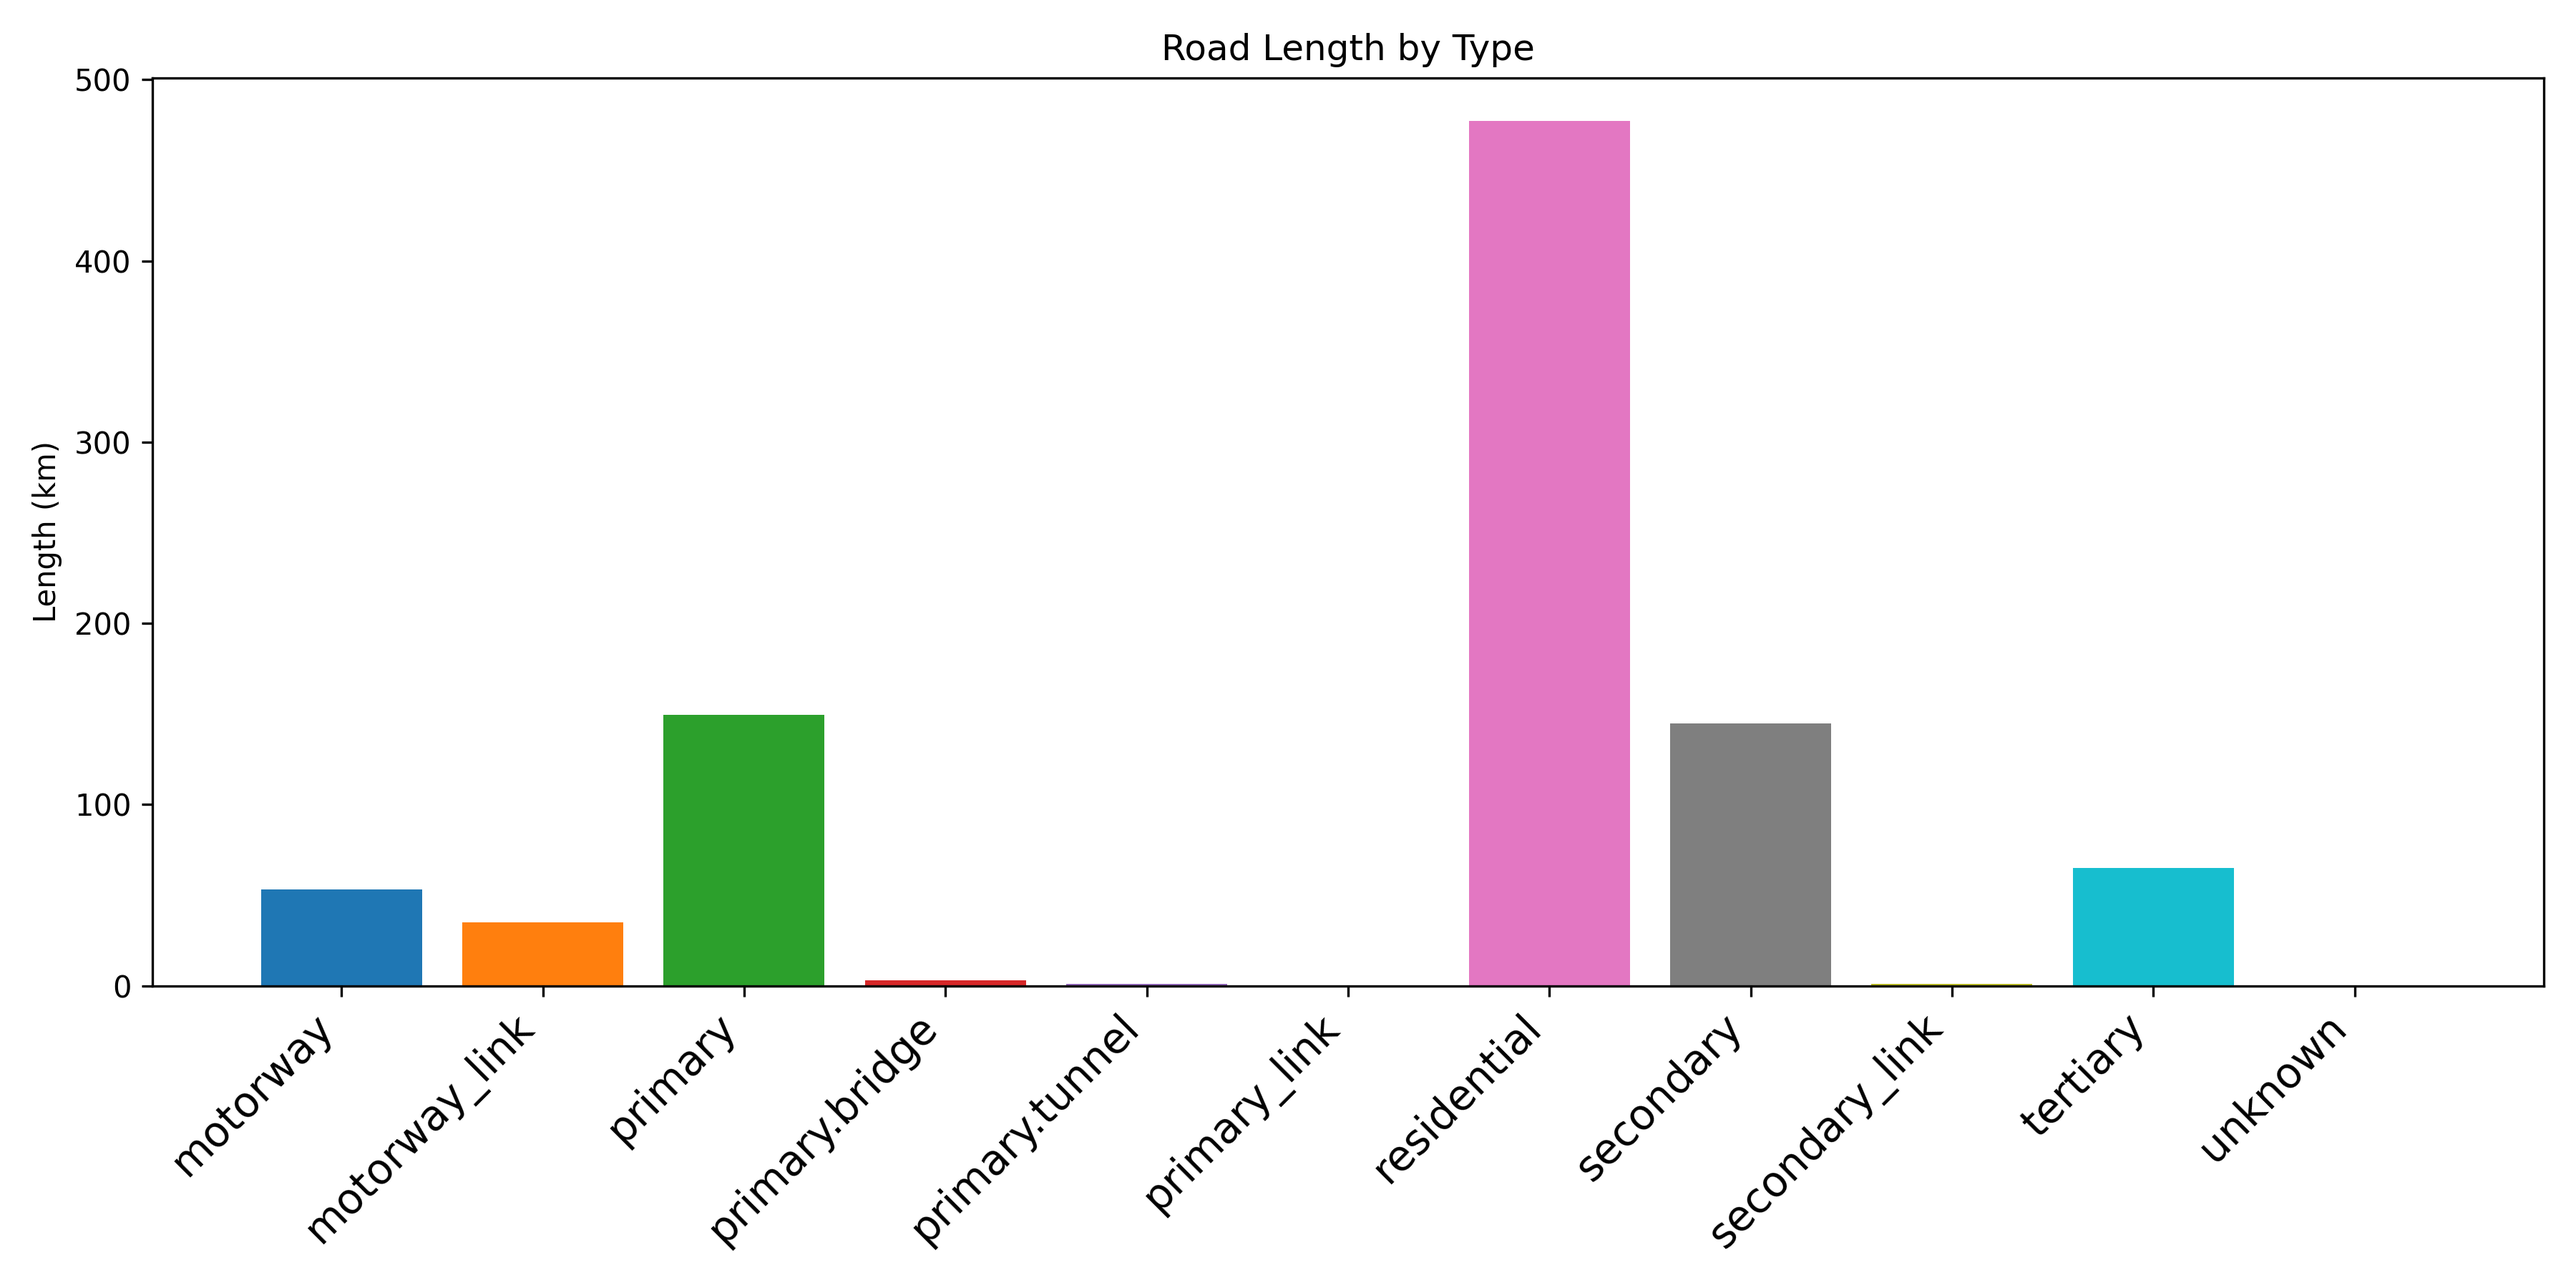
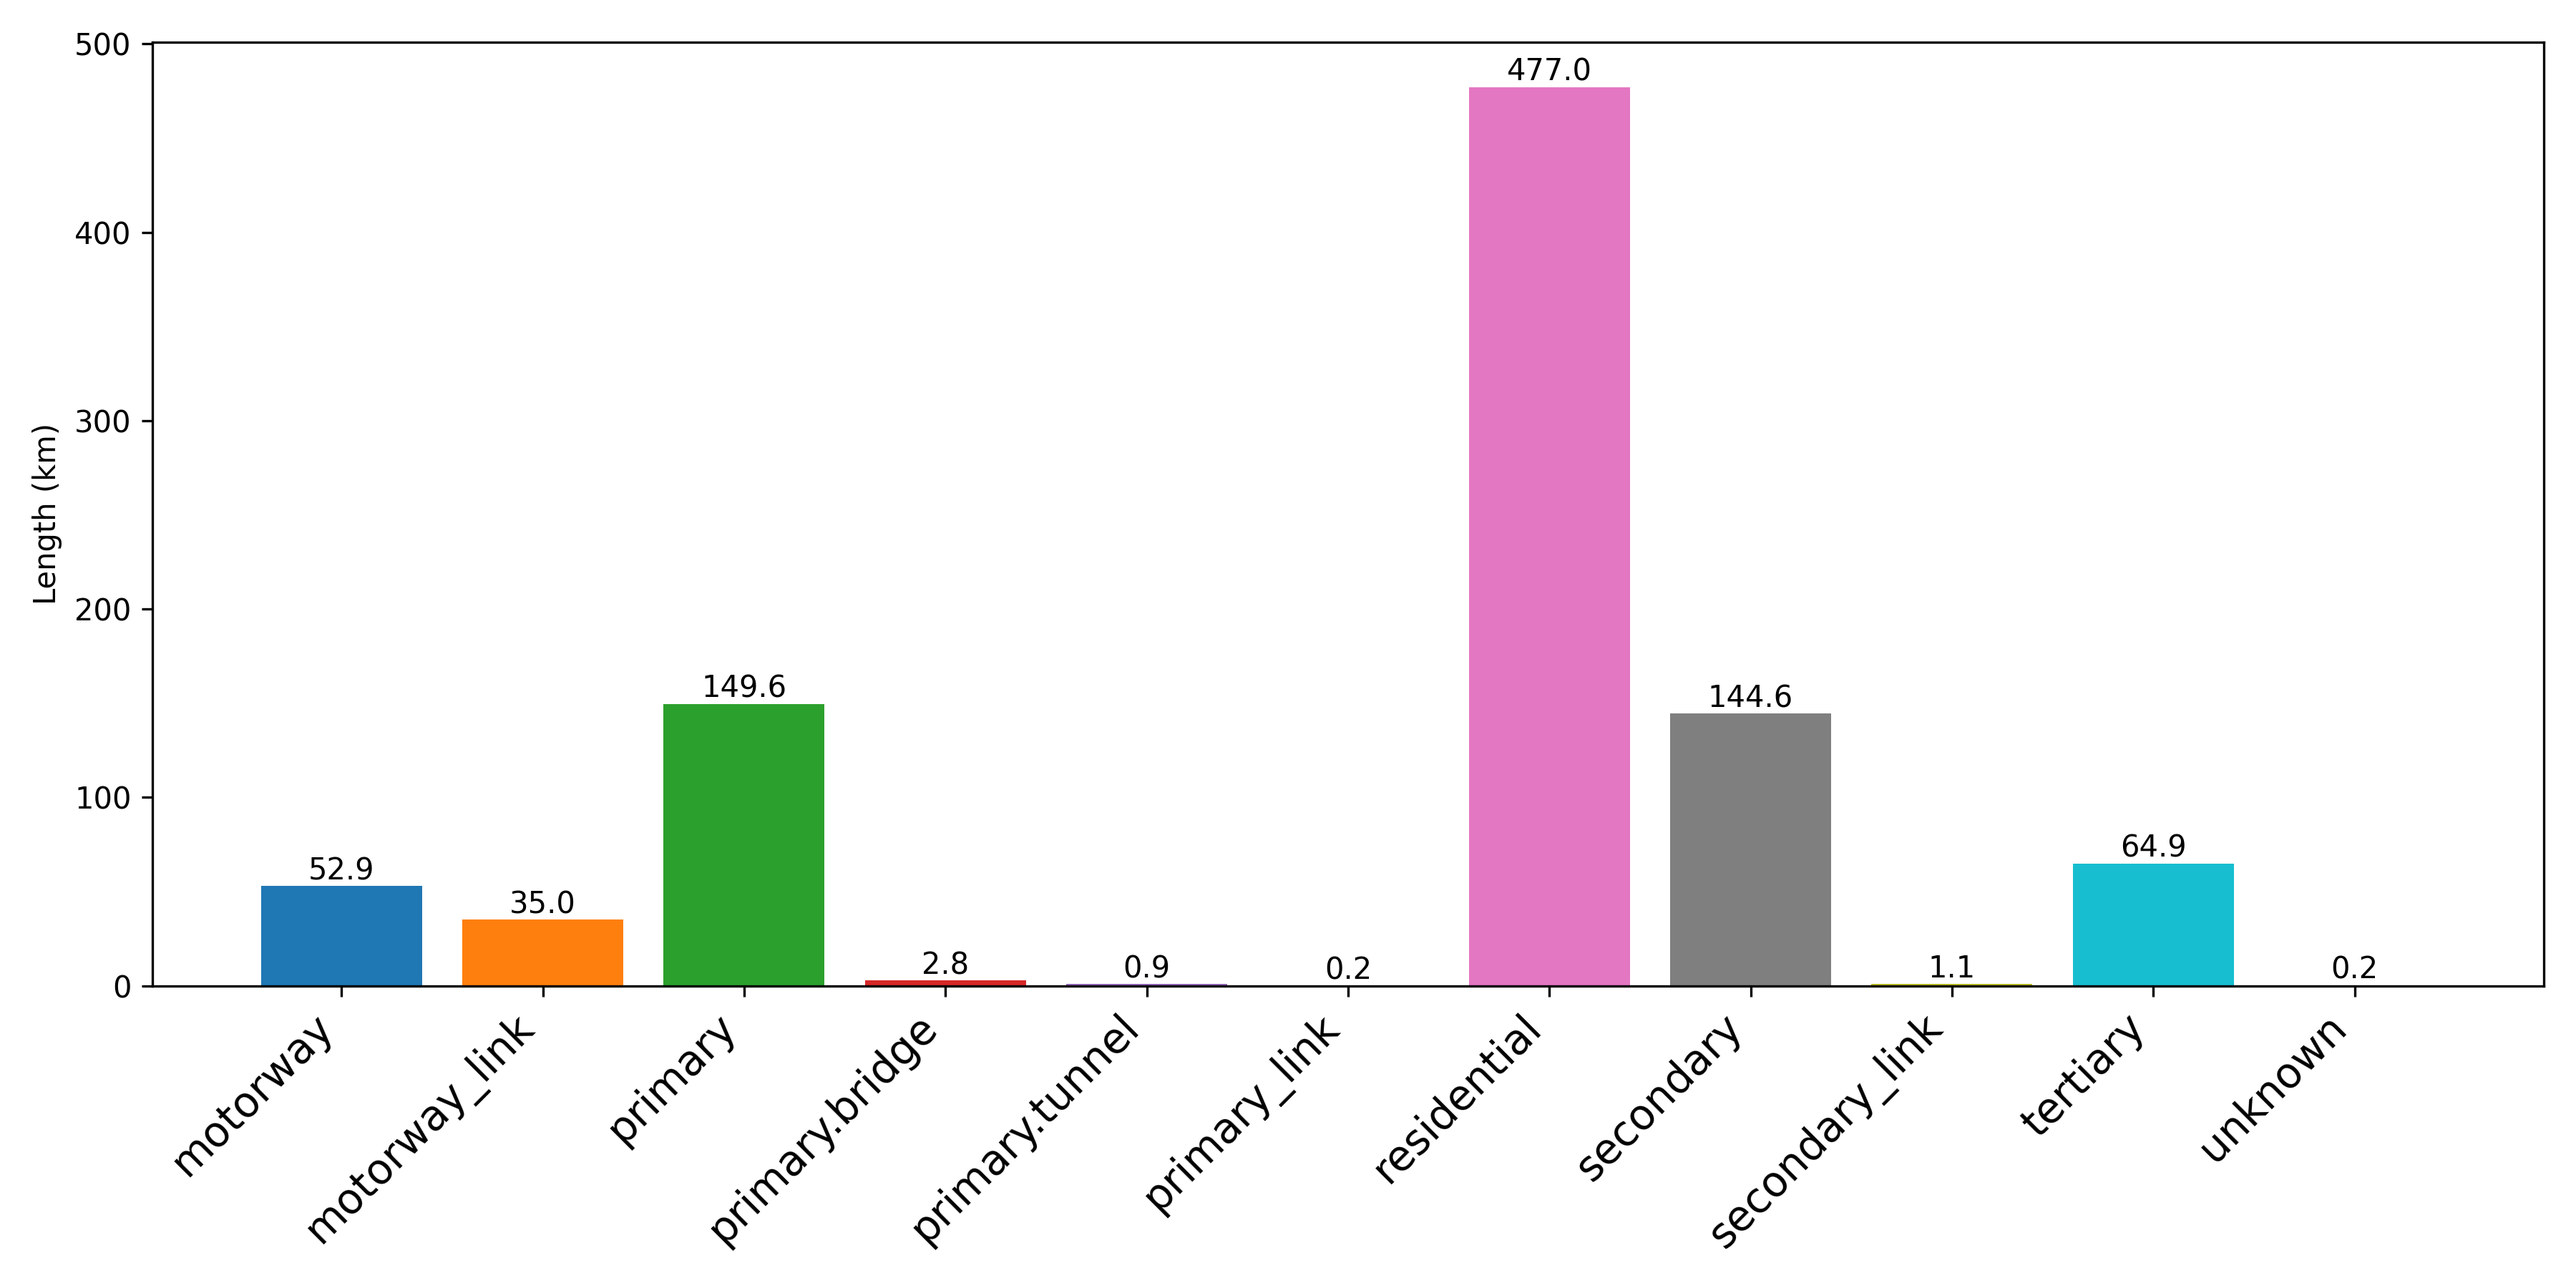
.

diff --git a/T4.1-KPIs/plotting_road_types.py b/T4.1-KPIs/plotting_road_types.py
@@ -58,12 +58,14 @@ def plot_bar(edges, type_colors, filename):
 
     fig, ax = plt.subplots(figsize=(12, 6))
     bars = ax.bar(range(len(labels)), values, color=colors)
+    for bar, value in zip(bars,values):
+        ax.text(bar.get_x() + bar.get_width() / 2, bar.get_height(),
+                f"{value:.1f}", ha="center", va="bottom", fontsize=10)
 
     clean_labels = [t.replace("highway.", "") for t in labels]
     ax.set_xticks(range(len(labels)))
     ax.set_xticklabels(clean_labels, rotation=45, ha="right", fontsize=14)
     ax.set_ylabel("Length (km)")
-    ax.set_title("Road Length by Type")
 
     plt.tight_layout()
     plt.savefig(filename, dpi=300)

diff --git a/T4.1-KPIs/get_resilience_KPIs.py b/T4.1-KPIs/get_resilience_KPIs.py
@@ -15,7 +15,7 @@ from get_capacity_KPIs import build_graph, NET_FILE
 
 
 TRIPINFO_FILE  = "LuSTScenario-master/scenario/dua.static.tripinfo.xml"
-DISASTER_EDGES = ["--30282", "--30306#1", "--30316", "--30422", "--30506"] # picked random edges from the network to show functionality
+DISASTER_EDGES = ["-30620", "--30620", "-30528#7", "--30528#7", "--30256#0", "--30256#0"] # manually picked highly critical edges
 OUTPUT_DIR     = "plots"
 CMAP           = cm.get_cmap("viridis")
 
